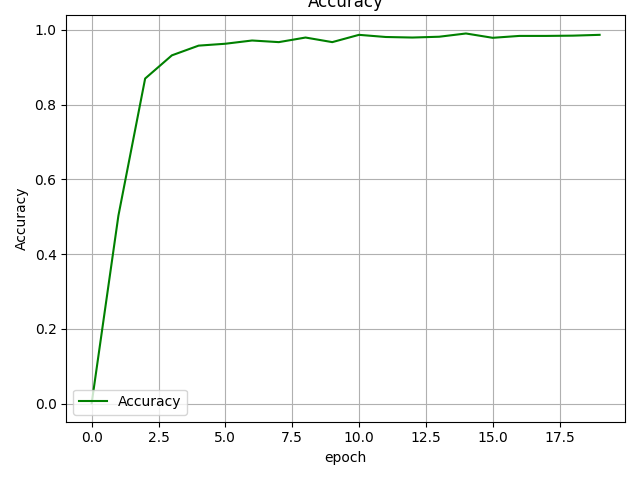
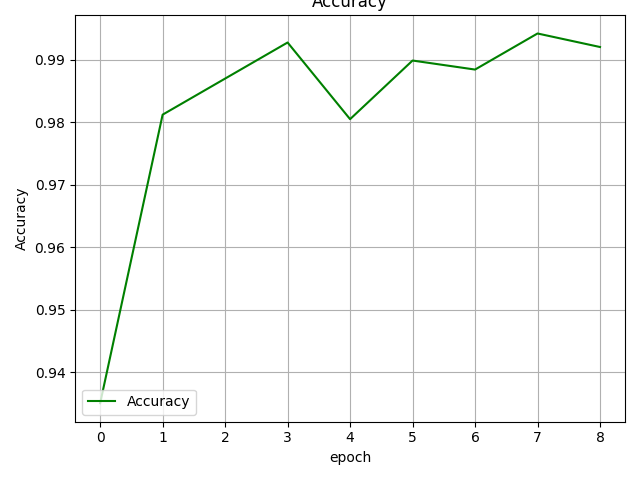
ResNet

diff --git a/src/main.py b/src/main.py
@@ -1,17 +1,18 @@
-import yaml
-import typing as tp
-import os
-
-from torch.utils.data import DataLoader
-import torch.nn as nn
-import torch.optim
-# import wandb  # sudo apt install libpython3.7-dev python3.7 -m pip install wandb
-import numpy as np
-
-from datasets.timit import TimitTrain, TimitEval
-from model.model import MS_SincResNet, SincNet
-from utils import NestedNamespace, compute_chunk_info
 import matplotlib.pyplot as plt
+from utils import NestedNamespace, compute_chunk_info
+from model.model import MS_SincResNet
+from datasets.timit import TimitTrain, TimitEval
+import numpy as np
+import torch.optim
+import torch.nn as nn
+from torch.utils.data import DataLoader
+import torch
+import os
+import typing as tp
+import yaml
+# torch.cuda.empty_cache()
+torch.cuda.memory_summary(device=None, abbreviated=False)
+# import wandb  # sudo apt install libpython3.7-dev python3.7 -m pip install wandb
 
 
 def PlotAccuracy(Accuracy):
@@ -61,9 +62,7 @@ def main(params: NestedNamespace):
     dataloader = DataLoader(dataset_train, batch_size=params.batch_size,
                             shuffle=True, drop_last=True)
 
-    # sinc_net = MS_SincResNet()
-    sinc_net = SincNet(
-        chunk_len, params.data.timit.n_classes, params.model.type)
+    sinc_net = MS_SincResNet()
     sinc_net = sinc_net.to(params.device)
     optim = torch.optim.RMSprop(
         sinc_net.parameters(), lr=params.lr, alpha=0.95, eps=1e-8)
@@ -80,6 +79,7 @@ def main(params: NestedNamespace):
         accuracy, losses = [], []
         sinc_net.train()
         for j, batch in enumerate(dataloader):
+         #   print(torch.cuda.memory_summary(device=None, abbreviated=False))
             optim.zero_grad()
             chunks, labels = batch
             chunks, labels = chunks.to(params.device), labels.to(params.device)
@@ -113,13 +113,13 @@ def main(params: NestedNamespace):
                 print(f'epoch {i}\ntrain accuracy {np.mean(accuracy*100)}%\ntrain loss {np.mean(losses)} \n'
                       f'test loss {LossPlot[-1]}%\n'
                       f'test wav accuracy {(TestAcc[-1])*100}%')
-                if len(TestAcc) > 1:
-                    if TestAcc[-1] > TestAcc[-2]:
+                if i % (params.verbose_every) == 0 and i != 0:
+                    if (TestAcc[-1] > TestAcc[-2]):
                         torch.save(
                             {'model_state_dict': sinc_net.state_dict(
                             ), 'optimizer_state_dict': optim.state_dict(), 'epoch': i},
-                            os.path.join(params.save_path, params.model.type+'.pt'))
-                        print("saved model!! ")
+
+                            os.path.join(params.save_path, params.model.type + str(i) + '.pt'))
     PlotAccuracy(TestAcc)
     PlotLoss(LossPlot)
 

diff --git a/src/model/model.py b/src/model/model.py
@@ -133,22 +133,24 @@ class MS_SincResNet(nn.Module):
         super(MS_SincResNet, self).__init__()
         self.layerNorm = nn.LayerNorm([1, chunk_len])
         kernel1 = 251
-        out_channels = 80
+        kernel2 = 501
+        kernel3 = 1001
+        out_channels = 40
         self.sincNet1 = nn.Sequential(
             SincConv(1, out_channels, kernel1, padding=(kernel1 - 1) // 2),
             nn.BatchNorm1d(out_channels),
             nn.ReLU(inplace=True),
-            nn.AdaptiveAvgPool1d(1024))
+            nn.AdaptiveAvgPool1d(256))
         self.sincNet2 = nn.Sequential(
-            SincConv(1, out_channels, kernel1, padding=(kernel1 - 1) // 2),
+            SincConv(1, out_channels, kernel1, padding=(kernel2 - 1) // 2),
             nn.BatchNorm1d(out_channels),
             nn.ReLU(inplace=True),
-            nn.AdaptiveAvgPool1d(1024))
+            nn.AdaptiveAvgPool1d(256))
         self.sincNet3 = nn.Sequential(
-            SincConv(1, out_channels, kernel1, padding=(kernel1 - 1) // 2),
+            SincConv(1, out_channels, kernel1, padding=(kernel3 - 1) // 2),
             nn.BatchNorm1d(out_channels),
             nn.ReLU(inplace=True),
-            nn.AdaptiveAvgPool1d(1024))
+            nn.AdaptiveAvgPool1d(256))
         self.resnet = myResnet(pretrained=True)
 
     def forward(self, x):
